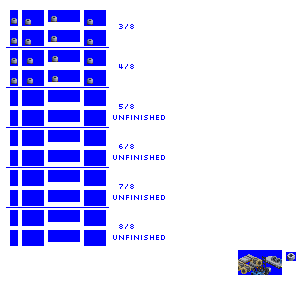
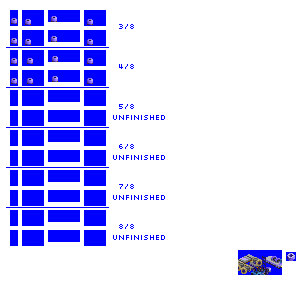
Change: recolour maps for coils

diff --git a/bin/render_cargo_graphics.py b/bin/render_cargo_graphics.py
@@ -34,9 +34,15 @@ cargo_graphics_maps = [("tarps_1", "tarps_blue_1",
                        ("logs", "logs", {}),
                        ("lumber_planks", "lumber_planks", {}),
                        ("nuts", "nuts", {}),
-                       ("coils_1", "paper_coils", {}),
-                       ("coils_1", "steel_coils", {}),
-                       ("coils_1", "copper_coils", {})]
+                       ("coils_1", "paper_coils",
+                       {136: 8, 137: 9, 138: 10, 139: 11,
+                        140: 12, 141: 13, 142: 14, 143: 15}),
+                       ("coils_1", "steel_coils",
+                       {136: 3, 137: 16, 138: 17, 139: 18,
+                        140: 19, 141: 20, 142: 21, 143: 22}),
+                       ("coils_1", "copper_coils",
+                       {136: 60, 137: 112, 138: 62, 139: 115,
+                        140: 117, 141: 118, 142: 119, 143: 120})]
 
 def make_spritesheet_from_image(input_image):
     spritesheet = Spritesheet(width=input_image.size[0], height=input_image.size[1] , palette=DOS_PALETTE)
@@ -68,7 +74,6 @@ def main():
         shutil.rmtree(graphics_output_path)
     os.mkdir(graphics_output_path)
 
-    print("Rendering not implemented, using straight copy instead")
     for cargo_graphics_map in cargo_graphics_maps:
         input_image = Image.open(os.path.join(graphics_input_path, cargo_graphics_map[0] + '.png')).crop((0, 0, 300, 300))
         units = [SimpleRecolour(cargo_graphics_map[2])]
